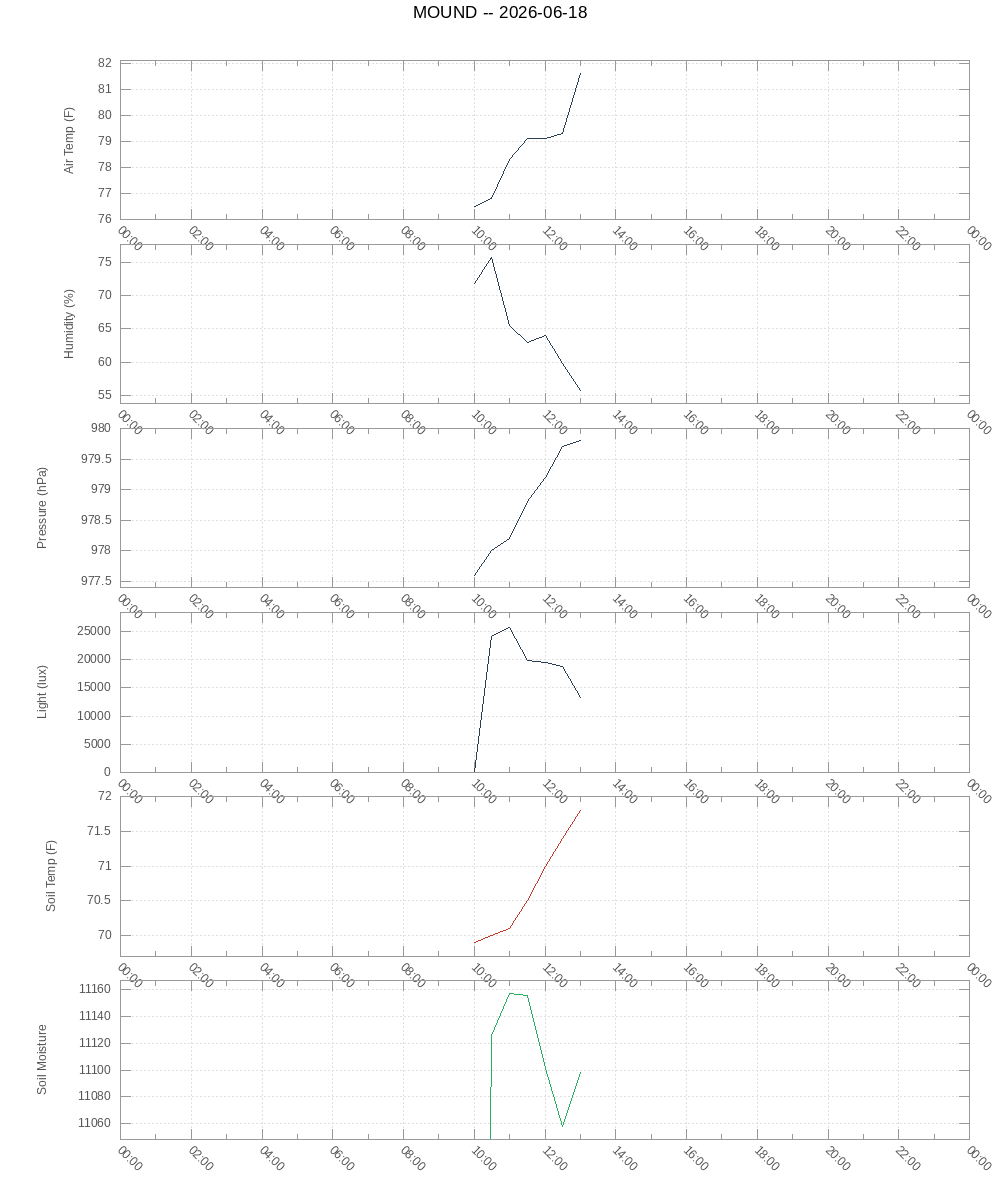
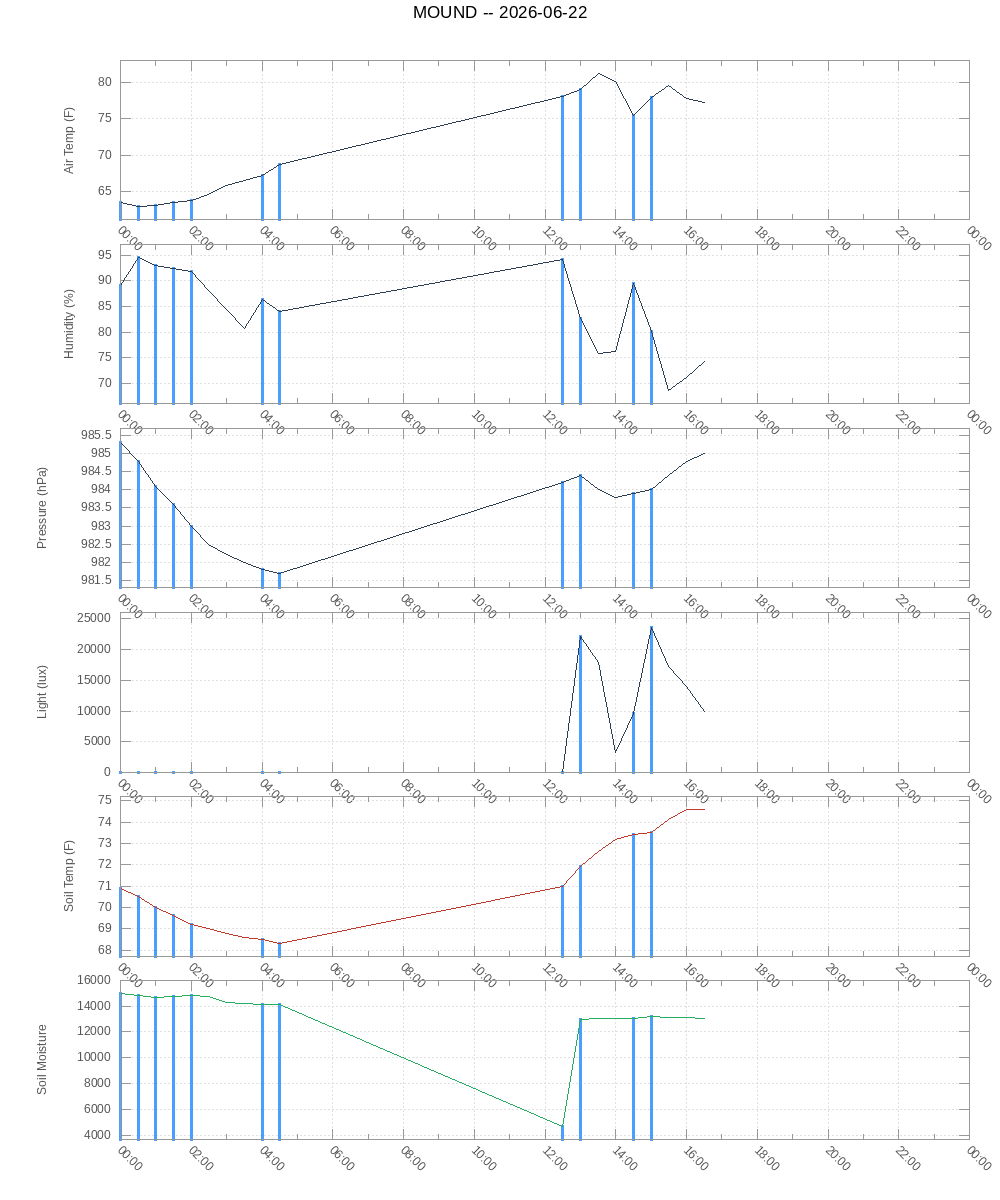
updated page descriptions

diff --git a/mound/index.html b/mound/index.html
@@ -38,21 +38,21 @@
 
       <hr style="border:none; border-top: 1px solid #ccc; margin: 1rem 0;">
 
-      <p><strong>Last reading:</strong> 2026-06-18 13:00:04</p>
+      <p><strong>Last reading:</strong> 2026-06-22 16:30:03</p>
 
       <table style="border:none; border-collapse:collapse; font-family:inherit; font-size:inherit; color:inherit;">
-        <tr><td style="padding: 0.2rem 1.5rem 0.2rem 0;">Air Temperature</td><td>81.6 F</td></tr>
-        <tr><td style="padding: 0.2rem 1.5rem 0.2rem 0;">Humidity</td><td>55.8%</td></tr>
-        <tr><td style="padding: 0.2rem 1.5rem 0.2rem 0;">Pressure</td><td>979.8 hPa</td></tr>
-        <tr><td style="padding: 0.2rem 1.5rem 0.2rem 0;">Light</td><td>13233 lux</td></tr>
-        <tr><td style="padding: 0.2rem 1.5rem 0.2rem 0;">Soil Temperature</td><td>71.8 F</td></tr>
-        <tr><td style="padding: 0.2rem 1.5rem 0.2rem 0;">Soil Moisture</td><td>Saturated</td></tr>
+        <tr><td style="padding: 0.2rem 1.5rem 0.2rem 0;">Air Temperature</td><td>77.2 F</td></tr>
+        <tr><td style="padding: 0.2rem 1.5rem 0.2rem 0;">Humidity</td><td>74.3%</td></tr>
+        <tr><td style="padding: 0.2rem 1.5rem 0.2rem 0;">Pressure</td><td>985.0 hPa</td></tr>
+        <tr><td style="padding: 0.2rem 1.5rem 0.2rem 0;">Light</td><td>9969 lux</td></tr>
+        <tr><td style="padding: 0.2rem 1.5rem 0.2rem 0;">Soil Temperature</td><td>74.6 F</td></tr>
+        <tr><td style="padding: 0.2rem 1.5rem 0.2rem 0;">Soil Moisture</td><td>Moist</td></tr>
         <tr><td style="padding: 0.2rem 1.5rem 0.2rem 0;">Rain</td><td>No</td></tr>
       </table>
 
       <hr style="border:none; border-top: 1px solid #ccc; margin: 1rem 0;">
 
-      <p><strong>Today -- 2026-06-18</strong></p>
+      <p><strong>Today -- 2026-06-22</strong></p>
 
       <figure>
         <img src="graphs/today.png"
@@ -85,6 +85,11 @@
 
       <p><strong>Daily Archive</strong></p>
       <ul style="list-style:none; padding:0;">
+<li><a href="graphs/archive/2026-06-22.png">2026-06-22</a></li>
+<li><a href="graphs/archive/2026-06-21.png">2026-06-21</a></li>
+<li><a href="graphs/archive/2026-06-20.png">2026-06-20</a></li>
+<li><a href="graphs/archive/2026-06-19.png">2026-06-19</a></li>
+<li><a href="graphs/archive/2026-06-18.png">2026-06-18</a></li>
 <li><a href="graphs/archive/2026-06-17.png">2026-06-17</a></li>
 <li><a href="graphs/archive/2026-06-16.png">2026-06-16</a></li>
 <li><a href="graphs/archive/2026-06-15.png">2026-06-15</a></li>
@@ -101,7 +106,7 @@
 
     </blockquote>
 
-    <p style="font-size: 0.85rem; color: #999;">2026-06-18 · auto-generated</p>
+    <p style="font-size: 0.85rem; color: #999;">2026-06-22 · auto-generated</p>
 
   </div>
 

diff --git a/making.html b/making.html
@@ -34,7 +34,7 @@
       <li>
         <a href="music_projects.html" class="entry-title">Music Projects</a>
         <span class="entry-dots"></span>
-        <span class="entry-desc">recordings, experiments, noise</span>
+        <span class="entry-desc">original music recordings and videos</span>
       </li>
       <li>
         <a href="green_lamp.html" class="entry-title">Remote Lamp Switch</a>
@@ -54,12 +54,12 @@
       <li>
         <a href="absdbs.html" class="entry-title">3D-Printed Telescope</a>
         <span class="entry-dots"></span>
-        <span class="entry-desc">designed and printed from scratch · 2018</span>
+        <span class="entry-desc">I printed a full-sized dobsonian telescope · 2018</span>
       </li>
       <li>
         <a href="puppet_monster.html" class="entry-title">Puppet Monster</a>
         <span class="entry-dots"></span>
-        <span class="entry-desc">hand-built puppet for the stop motion video · 2017</span>
+        <span class="entry-desc">hand-built puppet I made with my daughter · 2017</span>
       </li>
       <li>
         <a href="junkbot_alpha.html" class="entry-title">Junkbot</a>
@@ -74,7 +74,7 @@
       <li>
         <a href="turtle_feeder.html" class="entry-title">Turtle Feeder</a>
         <span class="entry-dots"></span>
-        <span class="entry-desc">automated feeding rig for the backyard pond · 2016</span>
+        <span class="entry-desc">automated feeding rig for an aquarium · 2016</span>
       </li>
       <li>
         <a href="hopewell_v1-5.html" class="entry-title">The Hopewell v1.5 Rocket</a>
@@ -104,17 +104,17 @@
       <li>
         <a href="goonies_treasure_map_replica.html" class="entry-title">Goonies Treasure Map Replica</a>
         <span class="entry-dots"></span>
-        <span class="entry-desc">hand-aged prop replica, never hey you guys · 2013</span>
+        <span class="entry-desc">hand-aged prop replica · 2013</span>
       </li>
       <li>
         <a href="fisher_observatory.html" class="entry-title">The Fisher Observatory</a>
         <span class="entry-dots"></span>
-        <span class="entry-desc">built with my dad; still standing · 2012</span>
+        <span class="entry-desc">built with my dad; my backyard church · 2012</span>
       </li>
       <li>
         <a href="yellow_house_recording_studio.html" class="entry-title">Yellow House Recording Studio</a>
         <span class="entry-dots"></span>
-        <span class="entry-desc">a home studio built in the basement · 2005</span>
+        <span class="entry-desc">a home studio built in my garage · 2005</span>
       </li>
       <li>
         <a href="spaceship_cross-section.html" class="entry-title">Spaceship Design</a>

diff --git a/writing.html b/writing.html
@@ -64,12 +64,12 @@
       <li>
         <a href="cell_tower_dystopia.html" class="entry-title">Cell Tower Dystopia</a>
         <span class="entry-dots"></span>
-        <span class="entry-desc">the slow erasure of the dark sky · 2021</span>
+        <span class="entry-desc">a current cyberpunk dystopia - if you squint · 2021</span>
       </li>
       <li>
         <a href="lie_down.html" class="entry-title">A Morning Run</a>
         <span class="entry-dots"></span>
-        <span class="entry-desc">what happens when you slow down enough to notice · 2020</span>
+        <span class="entry-desc">"...we are like butterflies..." · 2020</span>
       </li>
       <li>
         <a href="nature-tech_romance.html" class="entry-title">Nature-Tech Romance</a>
@@ -82,7 +82,7 @@
         <span class="entry-desc">why the natural sciences feel like home · 2019</span>
       </li>
       <li>
-        <a href="your_own_path.html" class="entry-title">Your Own Path | yesteryear forever</a>
+        <a href="your_own_path.html" class="entry-title">Your Own Path</a>
         <span class="entry-dots"></span>
         <span class="entry-desc">what ants know about living a good life · 2019</span>
       </li>

diff --git a/absdbs.html b/absdbs.html
@@ -10,7 +10,7 @@
 </head>
 <body>
   <!-- category: making -->
-  <!-- desc: designed and printed from scratch -->
+  <!-- desc: I printed a full-sized dobsonian telescope -->
 
 <nav id="topnav">
     <div id="topnav-inner">

diff --git a/cell_tower_dystopia.html b/cell_tower_dystopia.html
@@ -10,7 +10,7 @@
 </head>
 <body>
   <!-- category: writing -->
-  <!-- desc: the slow erasure of the dark sky -->
+  <!-- desc: a current cyberpunk dystopia - if you squint -->
 
 <nav id="topnav">
     <div id="topnav-inner">

diff --git a/fisher_observatory.html b/fisher_observatory.html
@@ -10,7 +10,7 @@
 </head>
 <body>
   <!-- category: making -->
-  <!-- desc: built with my dad; still standing -->
+  <!-- desc: built with my dad; my backyard church -->
 
 <nav id="topnav">
     <div id="topnav-inner">

diff --git a/goonies_treasure_map_replica.html b/goonies_treasure_map_replica.html
@@ -10,7 +10,7 @@
 </head>
 <body>
   <!-- category: making -->
-  <!-- desc: hand-aged prop replica, never hey you guys -->
+  <!-- desc: hand-aged prop replica -->
 
 <nav id="topnav">
     <div id="topnav-inner">

diff --git a/lie_down.html b/lie_down.html
@@ -9,7 +9,7 @@
 </head>
 <body>
   <!-- category: writing -->
-  <!-- desc: what happens when you slow down enough to notice -->
+  <!-- desc: "...we are like butterflies..." -->
 
   <nav id="topnav">
     <div id="topnav-inner">

diff --git a/music_projects.html b/music_projects.html
@@ -9,7 +9,7 @@
 </head>
 <body>
   <!-- category: making -->
-  <!-- desc: recordings, experiments, noise -->
+  <!-- desc: original music recordings and videos -->
 
 
   <nav id="topnav">

diff --git a/puppet_monster.html b/puppet_monster.html
@@ -10,7 +10,7 @@
 </head>
 <body>
   <!-- category: making -->
-  <!-- desc: hand-built puppet for the stop motion video -->
+  <!-- desc: hand-built puppet I made with my daughter -->
 
 <nav id="topnav">
     <div id="topnav-inner">

diff --git a/turtle_feeder.html b/turtle_feeder.html
@@ -10,7 +10,7 @@
 </head>
 <body>
   <!-- category: making -->
-  <!-- desc: automated feeding rig for the backyard pond -->
+  <!-- desc: automated feeding rig for an aquarium -->
 
 <nav id="topnav">
     <div id="topnav-inner">

diff --git a/yellow_house_recording_studio.html b/yellow_house_recording_studio.html
@@ -10,7 +10,7 @@
 </head>
 <body>
   <!-- category: making -->
-  <!-- desc: a home studio built in the basement -->
+  <!-- desc: a home studio built in my garage -->
 
 <nav id="topnav">
     <div id="topnav-inner">